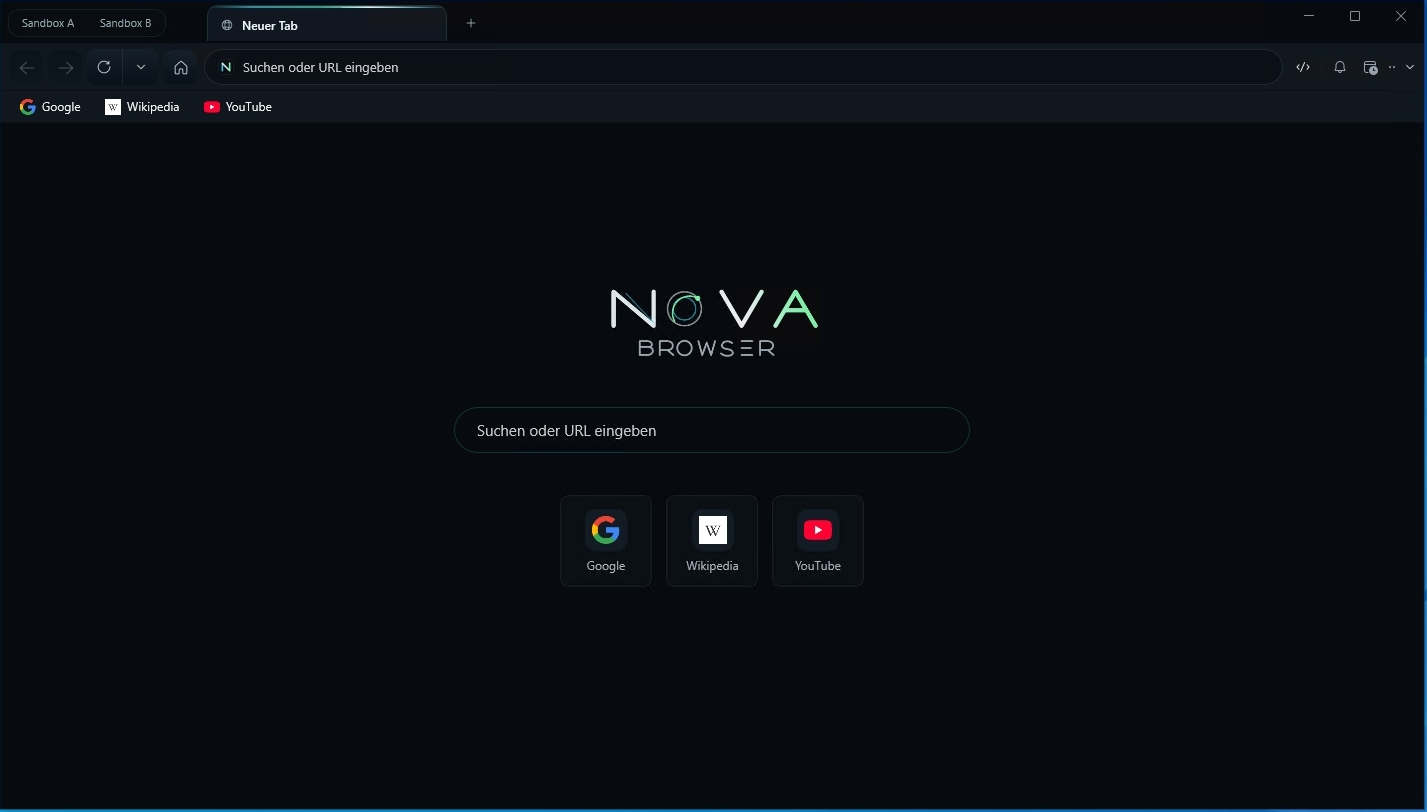
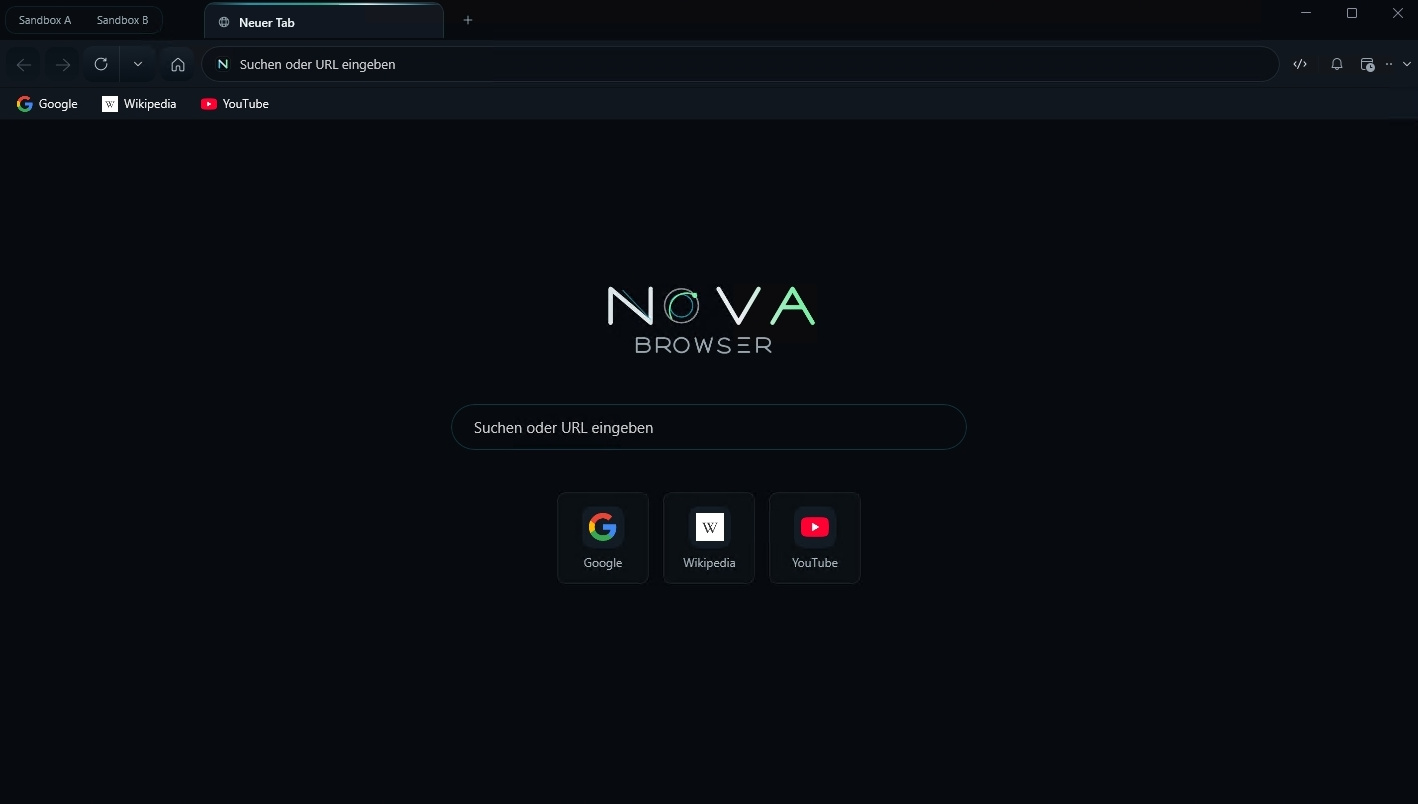
docs(changelog): clean crop for v1.0.0-alpha.17 and alpha.18 screenshots

diff --git a/docs/changelog/v1.0.0-alpha.18.md b/docs/changelog/v1.0.0-alpha.18.md
@@ -4,10 +4,10 @@
 > **Upcoming release.** 1.0.0-alpha.18 is not published yet. These notes describe the current development state and can still change until the setup is released.
 > **Kommendes Release.** 1.0.0-alpha.18 ist noch nicht veröffentlicht. Diese Notizen beschreiben den aktuellen Entwicklungsstand und können sich bis zur Veröffentlichung noch ändern.
 
-Nutzersichtbare Änderungen seit `1.0.0-alpha.17` (Entwicklungsstand 10.09.2026–06.10.2026). Im Zeitraum wurden über 450 Befunde geschlossen;
+Nutzersichtbare Änderungen seit `1.0.0-alpha.17` (Entwicklungsstand 10.09.2026–06.10.2026). Im Zeitraum wurden 507 Befunde geschlossen;
 die nutzersichtbaren davon stehen unten, reine Test-, Build- und Prüfer-Arbeit bleibt bewusst draußen.
 
-User-visible changes since `1.0.0-alpha.17` (development 2026-09-10–2026-10-06). More than 450 findings were closed in this period;
+User-visible changes since `1.0.0-alpha.17` (development 2026-09-10–2026-10-06). 507 findings were closed in this period;
 the user-visible ones are listed below, while purely internal test, build and scanner work is deliberately left out.
 
 ## Version snapshot / Versionsansicht
@@ -30,7 +30,7 @@ Fenstergröße, offene Tabs und Schnellzugriffe entsprechen der aufgenommenen Si
 - **A high-speed SQLite history engine and adaptive address bar.** History is powered by `history.db` with full-text search (searchable by agents via `nova.history_search`), 1-year retention and a 32 MB cache reducing address bar latency to under 10 ms. The omnibox learns what you pick, eliminates ghost-text flicker, reliably dismisses popups, and displays clean addresses like Chrome
 - **The permission dialogs are Nova's own now.** Location, clipboard and six more prompts used to be drawn by the browser engine. They now look like Nova, speak like Nova, and what you decide lands in Nova's permission settings where you can look it up and change it
 - **Nova asks the security questions itself.** Password prompts of websites (HTTP sign-in, now with your saved logins), invalid certificates, client certificates, and executable files before they are saved: each gets a plain Nova dialog that says what is going on instead of an engine page or silence
-- **A guided setup for your AI programs.** Instead of hunting for configuration files, Nova walks you through the connection and writes it for you. Antigravity is found automatically (syncing its separate configs), and connecting in an empty project seeds `CLAUDE.md`, `AGENTS.md` and `GEMINI.md` guidance files
+- **A guided setup for your AI programs.** Instead of hunting for configuration files, Nova walks you through the connection and writes it for you. Antigravity is found automatically (syncing its separate configs), Claude Desktop from the Microsoft Store and the new ChatGPT app are recognised, connecting in an empty project seeds `CLAUDE.md`, `AGENTS.md` and `GEMINI.md` guidance files, and the last page says which program still needs a restart
 - **Sandboxes grow up.** Up to 100 sandboxes, a scrolling bar with search, and links a sandbox opens in a new tab now stay in that sandbox's session, so you stay signed in. When a site needs a step elsewhere, Nova asks instead of blocking silently
 - **A password vault you can manage.** Add, edit and copy logins in settings; the account picker comes back when you need it, works with the keyboard and by right-click, handles sign-ins that ask for the e-mail first, and keeps ports separate
 - **Resumable background file transfers & local transcription.** SFTP and FTP transfers run as background jobs with pause, resume, and 8-channel parallel upload speedup in the downloads panel. Local offline audio/video transcription supports MP3, MP4, WebM, and MKV-Opus
@@ -112,6 +112,11 @@ Fenstergröße, offene Tabs und Schnellzugriffe entsprechen der aufgenommenen Si
 - Open it any time from **Settings → AI & agents → Set up**, or ask your agent to open it
 - Connecting in an empty project automatically seeds `CLAUDE.md`, `AGENTS.md` and `GEMINI.md` guidance files for your AI assistant
 - Fixed an issue where the setup wizard wrote configuration changes before reaching the confirmation step naming the affected files, and improved error feedback on failed connections
+- The last page lists every AI program with its status, the file Nova keeps its entry in, and which programs must be restarted; the firm "restart now" appears only for entries Nova has just written
+- The manual route shows the instructions first and then the program list as a check that reads the files again, with the result in plain words
+- Claude Desktop installed from the Microsoft Store is found and shown as "Claude Desktop / Cowork", and it is no longer mistaken for Claude Code when the setup decides which program needs a restart
+- The new ChatGPT app reads Codex's configuration in its Codex and Work modes, so the setup shows both together as "Codex / ChatGPT"; ChatGPT Classic has no MCP support
+- Before Nova changes Codex's `config.toml`, it keeps a `.nova.bak` copy, as it already did for the JSON configurations
 
 ### Sandboxes
 
@@ -152,6 +157,9 @@ Fenstergröße, offene Tabs und Schnellzugriffe entsprechen der aufgenommenen Si
 - A demo page, `demos/lab.html`, collects cases that ordinary browser automation stumbles over — for trying Nova side by side with other tools
 - Type `nova` into the Windows Run prompt (Win+R) to launch Nova directly via an App Paths alias
 - A Help entry in the main menu and settings rail opens user guides, keyboard shortcuts and trial license details
+- Links from other programs (an e-mail, a chat, Win+R) ask whether to open in a new or a private tab, with the address shown and a “Remember my decision” box; Settings > General changes it at any time, and a link that arrives while Nova is running now really opens instead of a blank tab
+- Links from other programs are no longer lost: one clicked while Nova is closing starts a fresh Nova instead of vanishing, “Restore previous tabs” keeps the tab it opened, links that arrive behind the license window survive the restart after activation, several addresses on the command line all open, `NovaAIWorkspace.exe github.com` works without `https://`, a full tab limit says so instead of doing nothing, and a Nova that hangs explains itself instead of ignoring the click
+- Agents: `nova.cookie_list` accepts the usual filter names `domain` and `name`, and `nova.eval`/`nova.input_text` explain how to fill rich-text editors (ProseMirror, TipTap, Lexical) so the site notices the text and paragraphs do not come out double-spaced
 - Fixed an issue in the interactive lab demo (`demos/lab.html`) where an escaped script tag prevented the demo form submit handler from running
 
 ## Experimental — not ready yet
@@ -189,6 +197,9 @@ Fenstergröße, offene Tabs und Schnellzugriffe entsprechen der aufgenommenen Si
 - The update removes the old `NovaBrowser.exe`, so no second, outdated Nova stays behind
 - After an update, agents and "start with Windows" find the renamed `NovaAIWorkspace.exe` even before Nova has been started once by hand
 - Uninstalling also removes downloaded updates and hand-over files from the new profile folder, and a reinstall recognises an existing licence there
+- The program folder is removed completely on uninstall, including the upload folder Nova creates next to the program when it runs with administrator rights
+- A standard user who uninstalls Nova with an administrator’s credentials no longer sees a misleading “runtime missing” message
+- Uninstalling as a standard user with an administrator’s credentials now acts on that user: “delete personal data” removes their data, autostart and notification registrations go, the uninstall protocol is written, and Nova running for another signed-in user is not closed without asking
 - Fixed an issue where an unanswered "restore tabs" prompt was discarded on normal shutdown instead of surviving until the next start
 - An update waits up to 60 seconds for an agent to finish its current step before Nova closes
 - The restore instructions inside every backup name the folder that actually exists
@@ -211,6 +222,26 @@ Fenstergröße, offene Tabs und Schnellzugriffe entsprechen der aufgenommenen Si
 - Fixed an issue where opening a new tab triggered up to 16 redundant rebuilds of the bookmarks bar
 - Main menu options that only apply to web pages are cleanly hidden when viewing the New Tab Page
 - Fixed an issue where clicking "History" in settings navigated to "Privacy & Security" instead of the History tab
+- If Windows has not finished setting up notifications for Nova right after an installation, Nova keeps trying and says so under Settings → Site permissions → Windows notifications instead of silently showing no banners
+- After an update from alpha.17, clicking a notification while Nova is closed starts Nova again, and notifications switched off in Windows are named as such under Settings → Site permissions → Windows notifications
+- Clicking a notification brings Nova back even when it is minimized or in the notification area, notifications read or removed in Nova also leave the Windows notification center, and notifications sent while Windows was still setting Nova up are shown once it is ready
+- Menus open at once, without the slide-in animation
+- Right-clicking the empty area of the tab bar opens Nova's menu: New tab, New private tab, Reopen closed tab, Maximize or Restore, Minimize and Close
+- The tab menu offers "Reload" and "Duplicate tab"; a duplicate keeps the address, the sandbox and the private session
+- In the page menu, "Back" and "Forward" are only active when there is a page to go to, and "Reload" takes the same path as the reload button and F5
+- The page menu closes cleanly when its tab or page goes away while it is open
+- Private tabs carry an incognito icon in the tab, the same symbol as on "New private tab"
+
+## Terminal
+
+- A shell tab's dot shows whether its program is working and pulses while it does; the Terminal button in the toolbar shows a green dot while a shell is running
+- Links in terminal output open in a new Nova tab with a click; a right-click copies the link or the selection
+- A button in the terminal header opens the session's workspace folder in Explorer
+- A session that is shown again, also after its own window was closed, replays its output instead of showing a black area
+- Closing a terminal tab in the background keeps the session you are looking at, and "Try again" after a failed open shows the session
+- Shutting down the terminal service no longer leaves a hidden console host process behind
+- For agents: `nova.terminal_run_command` reports the exit code of a failed PowerShell command correctly, reads only new output, and refuses a second command on the same session while one runs (`command_rejected`)
+- For agents: the terminal tools no longer depend on who holds the active browser tab, and `nova.terminal_open` replaces the oldest exited session at the limit of eight
 
 ## Downloads
 
@@ -240,6 +271,13 @@ Fenstergröße, offene Tabs und Schnellzugriffe entsprechen der aufgenommenen Si
 - Licence activation and renewal also report whether Nova uses the new or the old profile folder, so the old-folder support can be retired safely later
 - Public releases and documentation strip out internal repository paths and developer annotations
 - The privacy notice plainly lists Nova's default background connections — update checks, address bar suggestions, proxy probes — and legal notices reflect the new product name
+- Log entries that name a site visited in a private tab are written as "(private)" in Nova's logs and in the agent action log, and page titles of private tabs are not logged
+- Normal tabs no longer suggest open private tabs as tabs to switch to, and private tabs no longer suggest normal ones
+- Location and notification answers given in a private tab are not saved
+- Websites in a private tab that you allowed to send notifications can show them, and a permission question that cannot be shown is left undecided instead of refused
+- Private downloads leave the downloads list when the private session ends, running ones once they finish; the files stay where you saved them
+- Typing in the address bar of a private tab sends no suggestion request to a search engine
+- The link menu offers "Open link in private tab", and tab search marks private tabs with the incognito icon
 
 ## For agents (MCP)
 
@@ -335,7 +373,7 @@ Fenstergröße, offene Tabs und Schnellzugriffe entsprechen der aufgenommenen Si
 - **Eine schnelle SQLite-Verlaufs-Engine und lernende Adressleiste.** Der Verlauf läuft über `history.db` mit Volltextsuche (auch für Agenten per `nova.history_search`), 1-Jahres-Bereinigung und 32 MB Cache für Adressleisten-Latenzen unter 10 ms. Die Adressleiste lernt deine Auswahlen, schließt Popups zuverlässig, verhindert Flackern beim Ergänzungstext und zeigt Adressen sauber wie in Chrome
 - **Die Berechtigungs-Dialoge gehören jetzt Nova.** Standort, Zwischenablage und sechs weitere Geräte-Berechtigungen zeichnet Nova selbst und speichert Antworten in den Nova-Einstellungen statt im isolierten Speicher der Browser-Engine
 - **Nova stellt die Sicherheitsfragen selbst.** HTTP-Anmeldedialoge mit Tresor-Einfügung, ungültige Zertifikate mit sitzungsbasierten Ausnahmen, Client-Zertifikatsauswahl und Sicherheitswarnungen vor dem Speichern ausführbarer Dateien
-- **Eine geführte Einrichtung für deine KI-Programme.** Ein Assistent verbindet Claude Code, Codex und Antigravity (inklusive beider Konfigurationsdateien) ohne Dateizugriffe vor deiner Bestätigung und legt `CLAUDE.md`, `AGENTS.md` und `GEMINI.md` in neuen Projekten an
+- **Eine geführte Einrichtung für deine KI-Programme.** Ein Assistent verbindet Claude Code, Codex (auch über die neue ChatGPT-App), Claude Desktop aus dem Microsoft Store und Antigravity (inklusive beider Konfigurationsdateien) ohne Dateizugriffe vor deiner Bestätigung, legt `CLAUDE.md`, `AGENTS.md` und `GEMINI.md` in neuen Projekten an und sagt auf der letzten Seite, welches Programm noch neu starten muss
 - **Sandboxes werden erwachsen.** Bis zu 100 Sandboxes, eine durchrollbare Leiste mit Suche und isolierte Kind-Tabs, die auch über Neustarts hinweg in der angemeldeten Sitzung ihrer Sandbox bleiben
 - **Ein Passwort-Tresor, den du verwalten kannst.** Verwaltung in den Einstellungen, erreichbare Konto-Auswahl im Eingabefeld, Unterstützung mehrstufiger Anmeldungen (E-Mail zuerst, Passwort danach) und portgenaue Trennung
 - **Wiederaufnehmbare Datei-Transfers & lokale Transkription.** SFTP- und FTP-Übertragungen laufen als Hintergrund-Aufträge mit Pausieren, Fortsetzen und 8-fachem Upload-Schreibkanal im Download-Bereich. Lokale Transkription unterstützt MP3, MP4, WebM und MKV-Opus offline
@@ -417,6 +455,11 @@ Fenstergröße, offene Tabs und Schnellzugriffe entsprechen der aufgenommenen Si
 - Jederzeit zu öffnen unter **Einstellungen → KI & Agenten → Einrichten**, oder bitte deinen Agenten, sie zu öffnen
 - Beim Einrichten in einem leeren Projekt werden Konfigurationsdateien (`CLAUDE.md`, `AGENTS.md`, `GEMINI.md`) für KI-Assistenten automatisch angelegt
 - Ein Fehler wurde behoben, bei dem der Einrichtungs-Assistent Konfigurationsänderungen vor dem Bestätigungsschritt mit den Dateinamen schrieb, und die Fehlerrückmeldung bei Verbindungsfehlern wurde verbessert
+- Die letzte Seite listet jedes KI-Programm mit Status, der Datei, in der Nova seinen Eintrag führt, und den Programmen, die neu starten müssen; das deutliche „Jetzt neu starten" erscheint nur bei Einträgen, die Nova gerade geschrieben hat
+- Der manuelle Weg zeigt zuerst die Anleitung und danach die Programmliste als Prüfung, die die Dateien neu liest, mit dem Ergebnis in verständlichen Worten
+- Claude Desktop aus dem Microsoft Store wird gefunden und als „Claude Desktop / Cowork" angezeigt, und es wird nicht mehr für Claude Code gehalten, wenn die Einrichtung entscheidet, welches Programm neu starten muss
+- Die neue ChatGPT-App liest im Codex- und Work-Modus die Konfiguration von Codex, deshalb zeigt die Einrichtung beide zusammen als „Codex / ChatGPT"; ChatGPT Classic kann kein MCP
+- Bevor Nova die `config.toml` von Codex ändert, legt es eine Kopie `.nova.bak` an, wie schon bei den JSON-Konfigurationen
 
 ### Sandboxes
 
@@ -457,6 +500,9 @@ Fenstergröße, offene Tabs und Schnellzugriffe entsprechen der aufgenommenen Si
 - Eine Demo-Seite, `demos/lab.html`, sammelt Fälle, an denen übliche Browser-Automatisierung stolpert — zum Ausprobieren von Nova im direkten Vergleich
 - Ein Tippen von `nova` in Windows Ausführen (Win+R) startet Nova direkt über einen App-Paths-Alias
 - Ein Hilfe-Eintrag im Hauptmenü und in der Einstellungsleiste öffnet Nutzeranleitungen, Tastenkürzel und Lizenzdetails
+- Links aus anderen Programmen (E-Mail, Chat, Win+R) fragen, ob sie in einem neuen oder einem privaten Tab aufgehen sollen, mit Anzeige der Adresse und einem Häkchen „Entscheidung merken“; unter Einstellungen > Allgemein jederzeit änderbar, und ein Link bei laufendem Nova öffnet jetzt wirklich statt eines leeren Tabs
+- Links aus anderen Programmen gehen nicht mehr verloren: ein Klick, während Nova sich beendet, startet ein frisches Nova, statt zu verpuffen, „Vorherige Tabs wiederherstellen“ behält den von außen geöffneten Tab, Links hinter dem Lizenzfenster überstehen den Neustart nach der Aktivierung, mehrere Adressen auf der Kommandozeile öffnen alle, `NovaAIWorkspace.exe github.com` klappt ohne `https://`, ein volles Tab-Limit wird gemeldet statt still nichts zu tun, und ein hängendes Nova erklärt sich, statt den Klick zu ignorieren
+- Agenten: `nova.cookie_list` versteht die üblichen Filternamen `domain` und `name`, und `nova.eval`/`nova.input_text` erklären, wie man Rich-Text-Editoren (ProseMirror, TipTap, Lexical) füllt, damit die Seite den Text erkennt und Absätze nicht doppelt Abstand bekommen
 - Ein Fehler wurde behoben, bei dem in der Demo-Seite (`demos/lab.html`) ein fehlerhafter Script-Abschluss das Absenden des Demo-Formulars verhinderte
 
 ## Experimentell — noch nicht fertig
@@ -494,6 +540,9 @@ Fenstergröße, offene Tabs und Schnellzugriffe entsprechen der aufgenommenen Si
 - Das Update entfernt die alte `NovaBrowser.exe`, damit kein zweites, veraltetes Nova zurückbleibt
 - Nach einem Update finden Agenten und „Mit Windows starten" die umbenannte `NovaAIWorkspace.exe`, auch bevor Nova einmal von Hand gestartet wurde
 - Die Deinstallation entfernt auch heruntergeladene Updates und Übergabedateien aus dem neuen Profilordner, und eine Neuinstallation erkennt dort eine vorhandene Lizenz
+- Die Deinstallation entfernt den Programmordner vollständig, auch den Upload-Ordner, den Nova bei Ausführung mit Administratorrechten neben dem Programm anlegt
+- Deinstalliert ein Standardnutzer Nova mit den Zugangsdaten eines Administrators, erscheint keine irreführende Meldung „Runtime fehlt“ mehr
+- Deinstalliert ein Standardnutzer mit den Zugangsdaten eines Administrators, wirkt das jetzt für diesen Nutzer: „Persönliche Daten löschen“ entfernt seine Daten, Autostart- und Benachrichtigungs-Einträge verschwinden, das Protokoll wird geschrieben, und ein Nova anderer angemeldeter Nutzer wird nicht ohne Rückfrage beendet
 - Ein Fehler wurde behoben, bei dem ein unbeantwortetes Angebot „Tabs wiederherstellen“ beim sauberen Beenden verworfen wurde, statt bis zum nächsten Start zu überdauern
 - Ein Update wartet bis zu 60 Sekunden, bis ein Agent seinen laufenden Schritt beendet hat, bevor Nova schließt
 - Die Wiederherstellungs-Anleitung in jedem Backup nennt den Ordner, den es tatsächlich gibt
@@ -516,6 +565,26 @@ Fenstergröße, offene Tabs und Schnellzugriffe entsprechen der aufgenommenen Si
 - Ein Fehler wurde behoben, bei dem das Öffnen eines neuen Tabs bis zu 16 überflüssige Neuaufbauten der Lesezeichenleiste auslöste
 - Menüpunkte des Hauptmenüs, die nur für Webseiten gelten, werden auf der Neuen-Tab-Seite sauber ausgeblendet
 - Ein Fehler wurde behoben, bei dem das Anklicken von „Verlauf“ in den Einstellungen fälschlich den Reiter „Datenschutz & Sicherheit“ öffnete
+- Hat Windows die Benachrichtigungen für Nova direkt nach einer Installation noch nicht fertig eingerichtet, versucht Nova es weiter und sagt das unter Einstellungen → Website-Berechtigungen → Windows-Benachrichtigungen, statt still keine Banner zu zeigen
+- Nach einem Update von alpha.17 startet ein Klick auf eine Benachrichtigung Nova wieder, auch wenn Nova geschlossen ist, und in Windows ausgeschaltete Benachrichtigungen werden unter Einstellungen → Website-Berechtigungen → Windows-Benachrichtigungen als solche benannt
+- Ein Klick auf eine Benachrichtigung holt Nova auch aus der Minimierung oder dem Infobereich zurück, in Nova gelesene oder gelöschte Benachrichtigungen verschwinden auch aus dem Windows-Benachrichtigungscenter, und Benachrichtigungen aus der Zeit, in der Windows Nova noch einrichtete, erscheinen, sobald es fertig ist
+- Menüs öffnen sofort, ohne Einflug-Animation
+- Ein Rechtsklick auf die freie Fläche der Tab-Leiste öffnet Novas Menü: Neuer Tab, Neuer privater Tab, Tab wiederherstellen, Maximieren bzw. Wiederherstellen, Minimieren und Schließen
+- Das Tab-Menü bietet „Neu laden" und „Tab duplizieren"; ein Duplikat behält Adresse, Sandbox und private Sitzung
+- Im Seitenmenü sind „Zurück" und „Weiter" nur aktiv, wenn es dorthin eine Seite gibt, und „Neu laden" nimmt denselben Weg wie der Neu-laden-Knopf und F5
+- Das Seitenmenü schließt sauber, wenn sein Tab oder seine Seite verschwindet, während es offen ist
+- Private Tabs tragen ein Inkognito-Symbol im Tab, dasselbe Zeichen wie bei „Neuer privater Tab"
+
+## Terminal
+
+- Der Punkt eines Shell-Tabs zeigt, ob sein Programm arbeitet, und pulsiert dabei; der Terminal-Knopf in der Werkzeugleiste zeigt einen grünen Punkt, solange eine Shell läuft
+- Links in der Terminal-Ausgabe öffnen per Klick einen neuen Nova-Tab; ein Rechtsklick kopiert den Link oder die Auswahl
+- Ein Knopf im Terminal-Kopf öffnet den Workspace-Ordner der Sitzung im Explorer
+- Eine Sitzung, die wieder angezeigt wird, auch nachdem ihr eigenes Fenster geschlossen wurde, spielt ihre Ausgabe erneut ein, statt eine schwarze Fläche zu zeigen
+- Das Schließen eines Terminal-Tabs im Hintergrund lässt die angezeigte Sitzung stehen, und „Erneut versuchen" nach einem fehlgeschlagenen Öffnen zeigt die Sitzung
+- Das Beenden des Terminal-Dienstes hinterlässt keinen versteckten Konsolen-Host-Prozess mehr
+- Für Agenten: `nova.terminal_run_command` meldet den Exitcode eines fehlgeschlagenen PowerShell-Befehls richtig, liest nur neue Ausgabe und lehnt einen zweiten Befehl auf derselben Sitzung ab, solange einer läuft (`command_rejected`)
+- Für Agenten: Die Terminal-Werkzeuge hängen nicht mehr davon ab, wer den aktiven Browser-Tab hält, und `nova.terminal_open` ersetzt am Limit von acht Sitzungen die älteste beendete
 
 ## Downloads
 
@@ -545,6 +614,13 @@ Fenstergröße, offene Tabs und Schnellzugriffe entsprechen der aufgenommenen Si
 - Lizenzaktivierung und -verlängerung melden zusätzlich, ob Nova den neuen oder den alten Profilordner benutzt, damit die Unterstützung des alten Ordners später gefahrlos entfallen kann
 - Veröffentlichte Programmversionen und Dokumentationen bereinigen interne Repository-Pfade und Entwickler-Hinweise vollständig
 - Die Datenschutzerklärung listet Novas standardmäßige Hintergrundverbindungen offen auf — Update-Prüfung, Vorschläge der Adressleiste, Proxy-Tests — und Rechtstexte spiegeln den neuen Produktnamen wider
+- Logeinträge, die eine in einem privaten Tab besuchte Website nennen, stehen in Novas Logs und im Aktionslog der Agenten als „(private)", und Seitentitel privater Tabs werden nicht geloggt
+- Normale Tabs schlagen offene private Tabs nicht mehr zum Wechseln vor, und private Tabs keine normalen
+- Antworten zu Standort und Benachrichtigungen in einem privaten Tab werden nicht gespeichert
+- Webseiten in einem privaten Tab, denen du Benachrichtigungen erlaubt hast, können sie auch zeigen, und eine Erlaubnis-Frage, die nicht angezeigt werden kann, bleibt offen statt abgelehnt
+- Private Downloads verlassen die Download-Liste, wenn die private Sitzung endet, laufende sobald sie fertig sind; die Dateien bleiben, wo du sie gespeichert hast
+- Eingaben in die Adressleiste eines privaten Tabs schicken keine Vorschlagsanfrage an eine Suchmaschine
+- Das Link-Menü bietet „Link in privatem Tab öffnen", und die Tab-Suche kennzeichnet private Tabs mit dem Inkognito-Symbol
 
 ## Für Agenten (MCP)
 
